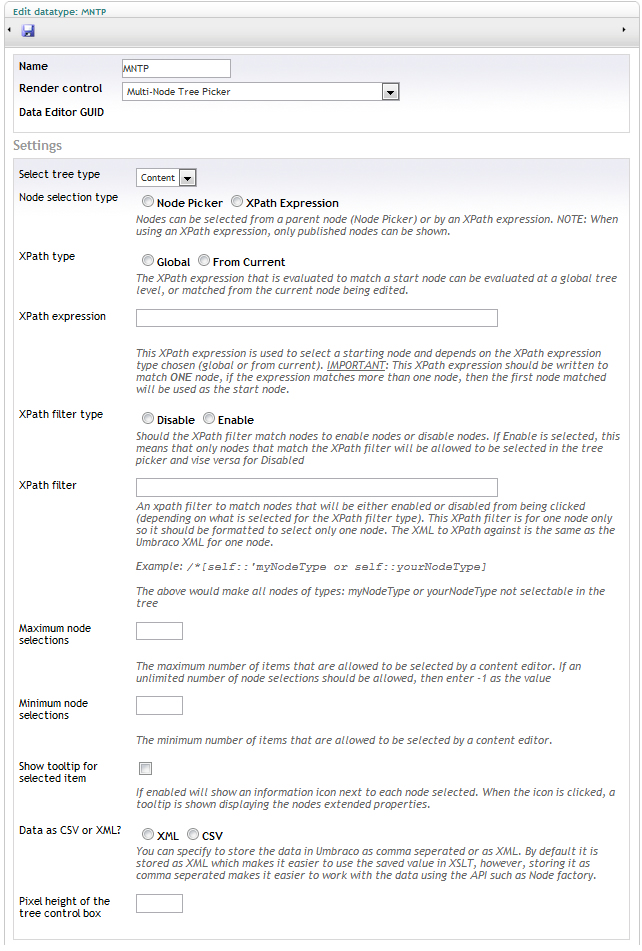
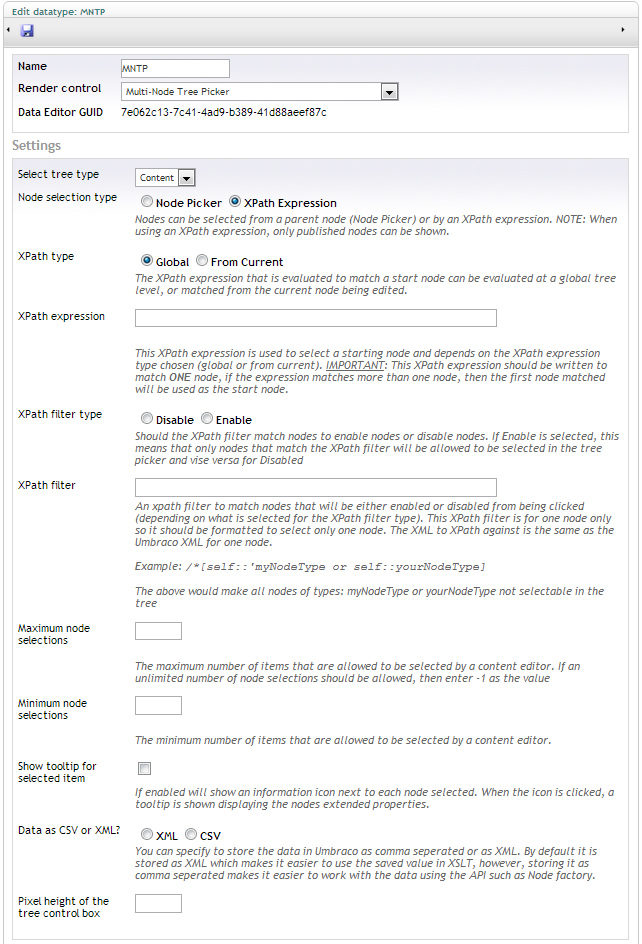
Initial content for MNTP settings

Changed region(s): [[0.0, 0.0, 0.9969, 1.0], [0.1869, 0.0614, 0.5296, 0.1229], [0.5919, 0.0614, 0.6231, 0.1229]]

diff --git a/Documentation/Using-Umbraco/Backoffice-Overview/Property-Editors/Built-in-Property-Editors/Multi-Node-Tree-Picker.md b/Documentation/Using-Umbraco/Backoffice-Overview/Property-Editors/Built-in-Property-Editors/Multi-Node-Tree-Picker.md
@@ -4,6 +4,74 @@
 
 The multi-node tree picker data type allows your content editor to choose multiple nodes in the content or media trees to be saved with the current document type. This is useful for all sorts of situations such as relating a page to numerous other pages, creating a list of images/files from the media section, etc...
 
+##Settings
+
+There are a lot of settings for the Multi-Node tree picker, there are also some settings which determine which further settings are displayed.
+
+###Select tree type
+
+This setting determines if the data type will allow users to pick from either content or media. Changing this setting determines further settings in the property editor as detailed below.
+
+![Media Picker Data Type Definition](images/MNTP-Settings-SelectTree.jpg?raw=true)
+
+###Node selection type 
+*This setting is only available when "Select tree type" setting is set to "Content".*
+
+This setting determines if the tree picker nodes are selected by a particular parent node or by using a XPath expression.
+
+![Media Picker Data Type Definition](images/MNTP-Settings-NodeSelectionType.jpg?raw=true) 
+
+###XPath Type
+
+*This setting is only available when "Select tree type" setting is set to "Content" and "Node selection type" is set to "XPath Expression".*
+
+![Media Picker Data Type Definition](images/MNTP-Settings-XPathType.jpg?raw=true) 
+
+###XPath expression
+*This setting is only available when "Select tree type" setting is set to "Content" and "Node selection type" is set to "XPath Expression".*
+
+![Media Picker Data Type Definition](images/MNTP-Settings-XPathExpression.jpg?raw=true) 
+
+###Start node ID
+
+*This setting is only available when "Select tree type" setting is set to "Content" and "Node selection type" is set to "Node Picker" or "Select tree type" is set to "Media".*
+
+![Media Picker Data Type Definition](images/MNTP-Settings-StartNodeID.jpg?raw=true) 
+
+###Show thumbnails for media items?
+
+*This setting is only available when "Select tree type" setting is set to "Media".*
+
+![Media Picker Data Type Definition](images/MNTP-Settings-Thumbs.jpg?raw=true) 
+
+###XPath filter type
+
+![Media Picker Data Type Definition](images/MNTP-Settings-XPathFilterType.jpg?raw=true) 
+
+###XPath filter
+
+![Media Picker Data Type Definition](images/MNTP-Settings-XPathFilter.jpg?raw=true) 
+
+###Maximum node selections
+
+![Media Picker Data Type Definition](images/MNTP-Settings-MaxNodes.jpg?raw=true) 
+
+###Minimum node selections
+
+![Media Picker Data Type Definition](images/MNTP-Settings-MinNodes.jpg?raw=true) 
+
+###Show tooltip for selected item
+
+![Media Picker Data Type Definition](images/MNTP-Settings-Tooltip.jpg?raw=true) 
+
+###Data as CSV or XML?
+
+![Media Picker Data Type Definition](images/MNTP-Settings-Tooltip.jpg?raw=true) 
+
+###Pixel height of the tree control box
+
+![Media Picker Data Type Definition](images/MNTP-Settings-Height.jpg?raw=true)
+
 ##Data Type Definition Example
 
 ![Media Picker Data Type Definition](images/MNTP-DataType.jpg?raw=true)
